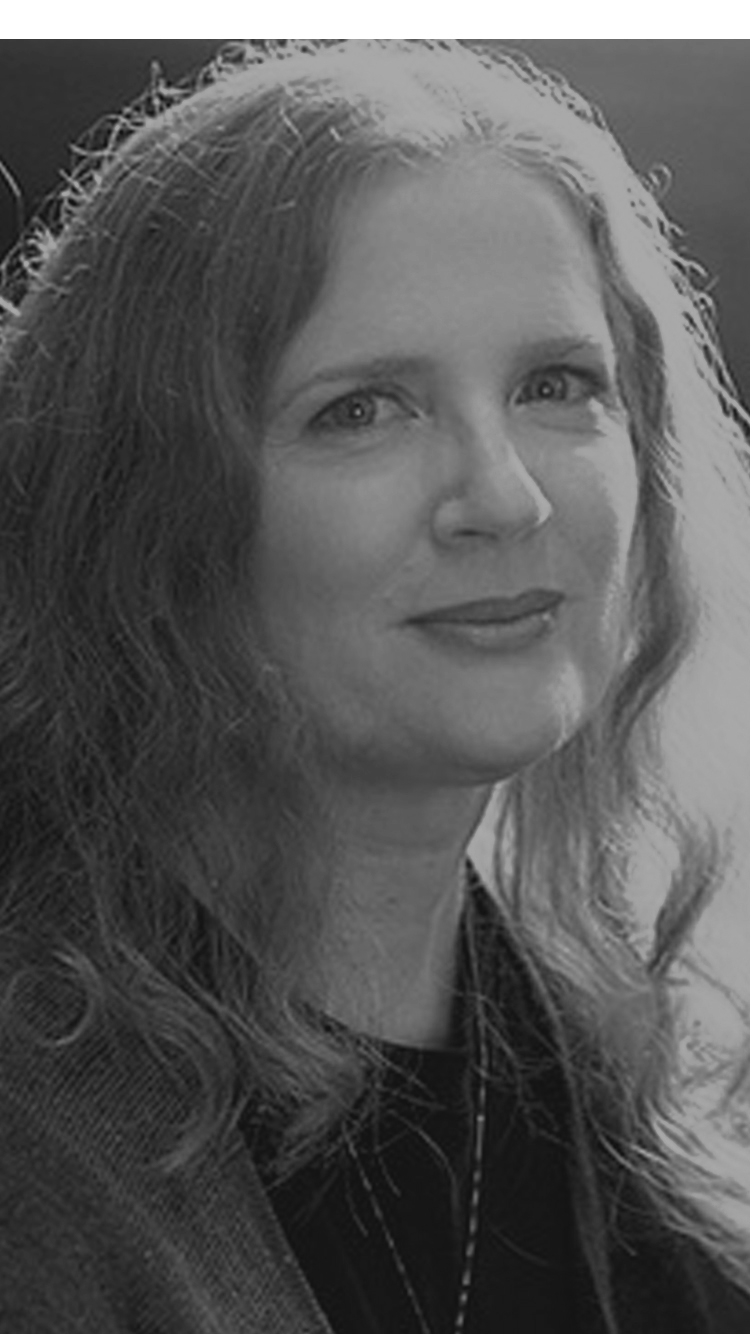
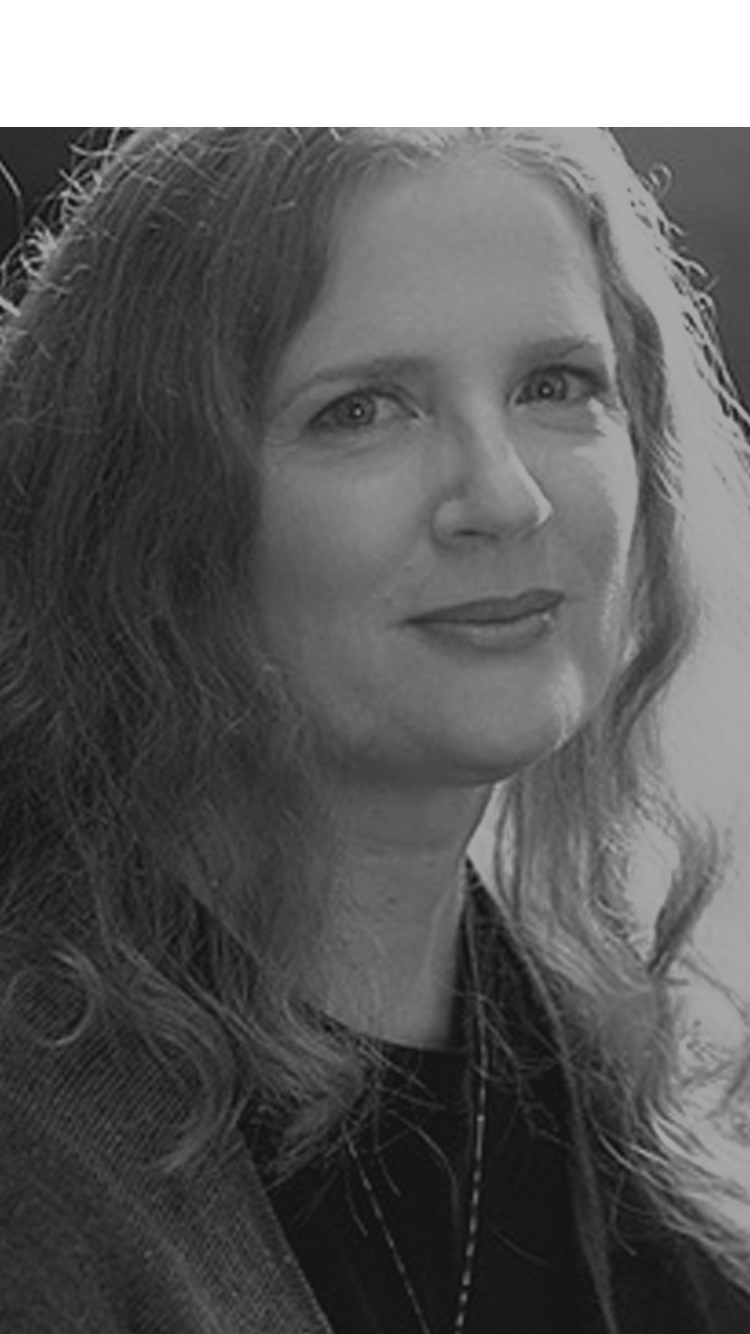
jnrjfjf

Changed region(s): [[0.0, 0.0307, 1.0, 0.0922]]

diff --git a/index.html b/index.html
@@ -54,7 +54,7 @@
                                    <li><a href="https://trisv466.github.io/Class-site/container/draft-7/index.html" class="contents">Container Draft 7</a></li>
 
 
-                                   <li><a href="https://trisv466.github.io/Class-site/container-final/index.html" class="contents">Container Final</a></li>
+                                   <li><a href="http://students.eroonkang.com/valerietrisnadi/core-studio/container-final/index.html" class="contents">Container Final</a></li>
 
                                    <!-- <li><a href="file:///Users/valerietrisnadi/Documents/Core%20Studio%20Interaction/Class-site/container-final/index.html" class="contents">Container Final</a></li> -->
     </ul>
@@ -73,7 +73,7 @@
       <li><a href="https://trisv466.github.io/Class-site/mix/index.html" class="contents2">Mix</a></li>
       <li><a href="file:///Users/valerietrisnadi/Documents/Core%20Studio%20Interaction/Class-site/filters/draft-1/index.html" class="contents2">filters</a></li>
       <li><a href="file:///Users/valerietrisnadi/Documents/Core%20Studio%20Interaction/Class-site/plug-ins/examples/index.html">plug-ins</a></li>
-        <li><a href="https://trisv466.github.io/Class-site/mobile/index.html" class="contents2">Mobile</a></li>
+        <li><a href="http://students.eroonkang.com/valerietrisnadi/core-studio/mobile/index.html" class="contents2">Mobile</a></li>
     </ul>
  </div>
 

diff --git a/mobile/css/style.css b/mobile/css/style.css
@@ -30,7 +30,7 @@ body {
   position: relative;
   z-index: 20;
   width: 100%;
-  height: 667px;
+  height: 1500px;
   overflow: hidden;
   visibility: visible;
   -webkit-transition: all 0.3s ease-in;
